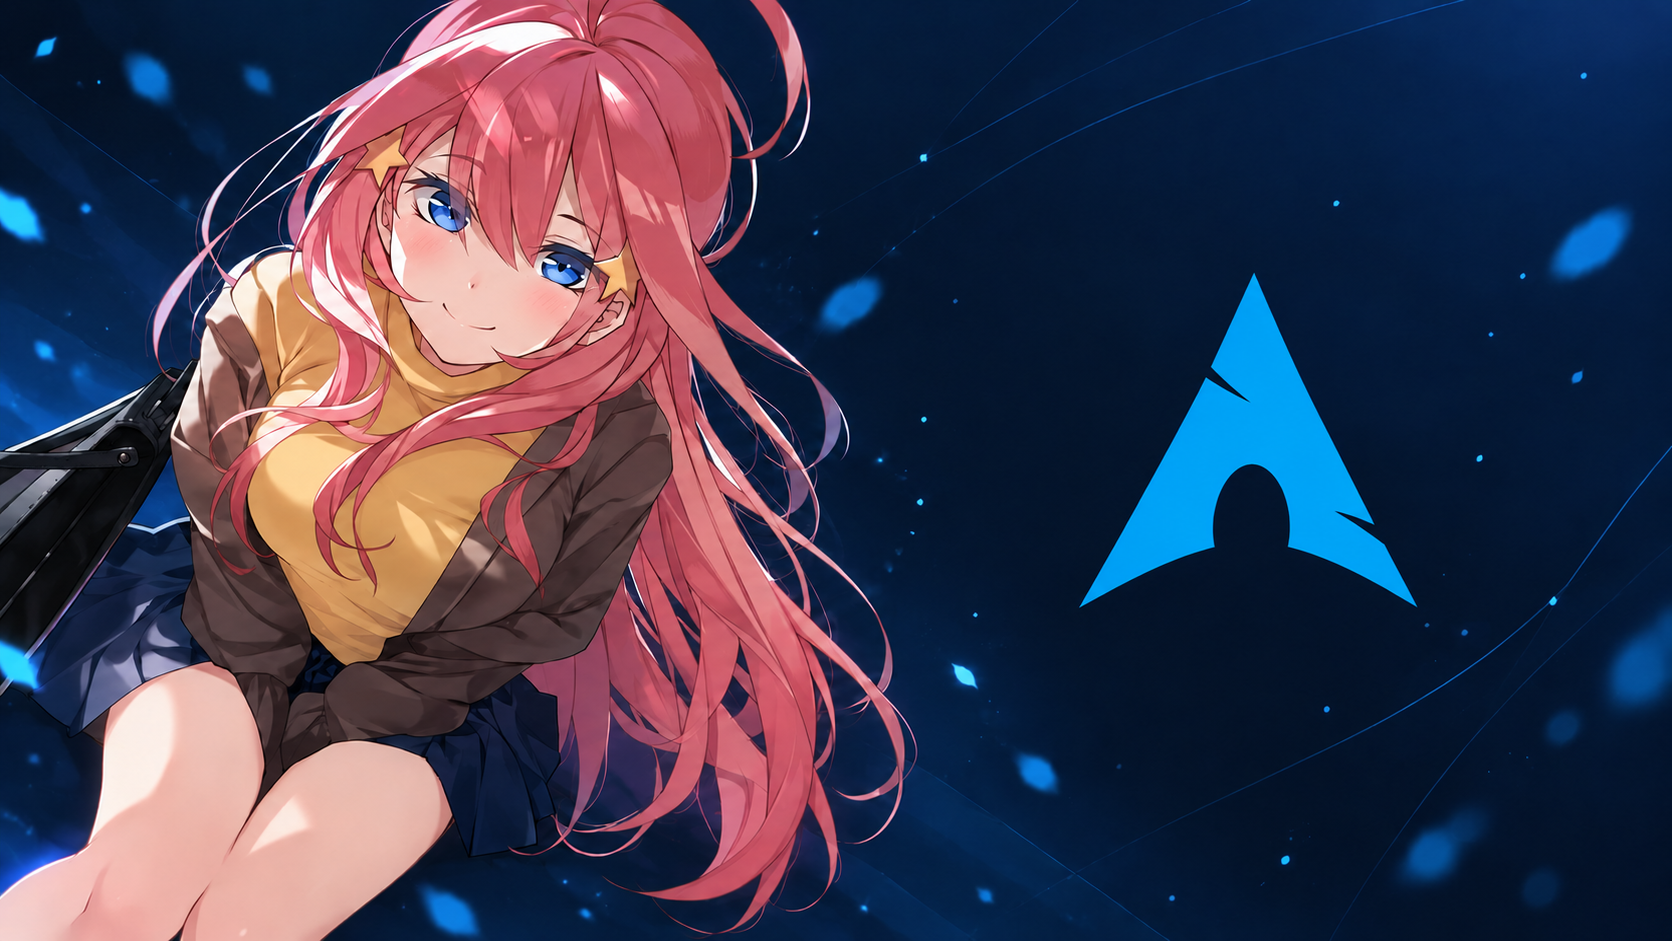
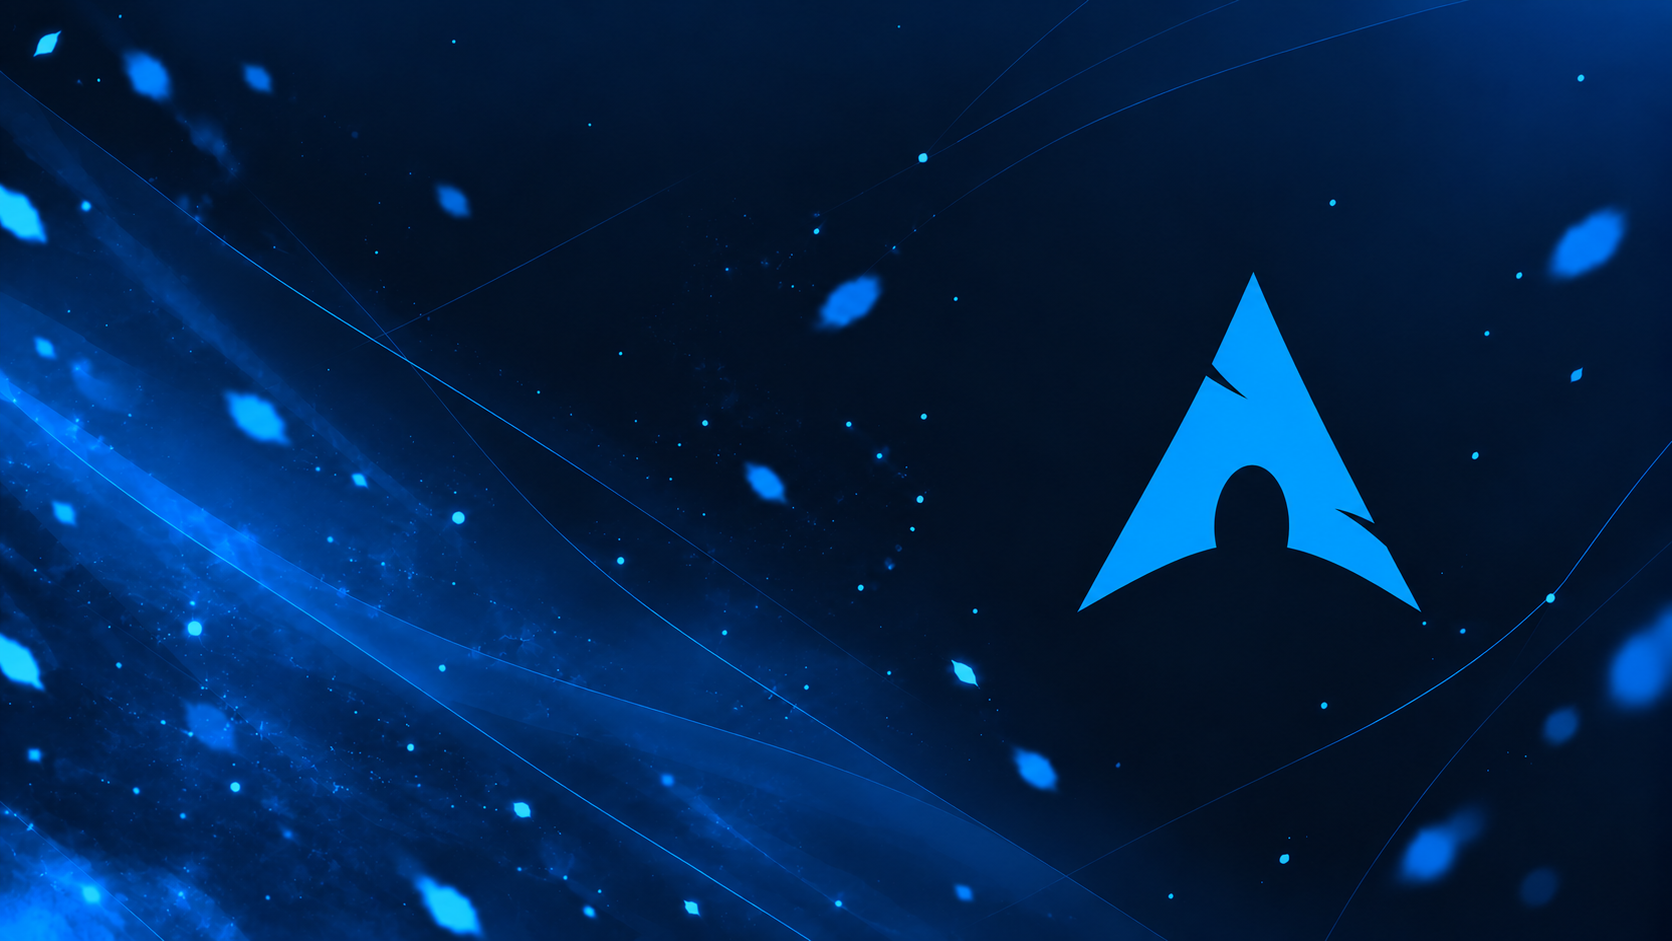
Use character-free Arch, Gentoo and neutral wallpapers

diff --git a/wallpaper/README.md b/wallpaper/README.md
@@ -4,10 +4,10 @@ The main installer selects the wallpaper matching the chosen variant and install
 
 | File | Intended variant | Description |
 |---|---|---|
-| `itsuki_debian_wallpaper_v2_1600x900.png` | Debian | Original red/pink Debian spiral |
-| `itsuki-arch.png` | Arch Linux | Blue background and blue-tinted petals |
-| `itsuki-gentoo.png` | Gentoo | Purple background and purple-tinted petals |
-| `itsuki-neutral.png` | Neutral | Red/pink background, without a large distro logo or star |
+| `itsuki_debian_wallpaper_v2_1600x900.png` | Debian | Original red/pink Debian spiral artwork |
+| `itsuki-arch.png` | Arch Linux | Blue/cyan space background with Arch logo, no anime character |
+| `itsuki-gentoo.png` | Gentoo | Violet space background with Gentoo logo, no anime character |
+| `itsuki-neutral.png` | Neutral | Red/pink atmospheric background without a distro logo or anime character |
 | `debian-rice.jpg` | LightDM | Dark Debian-logo background for the login greeter |
 
-The LightDM background is separate from the desktop wallpapers and is used only by the optional `install-lightdm.sh` script.
+The Arch, Gentoo, and Neutral files above are the wallpapers selected by the main installer's theme menu. The LightDM background is separate from the desktop wallpapers and is used only by the optional `install-lightdm.sh` script.

diff --git a/README.md b/README.md
@@ -13,7 +13,7 @@ A themed desktop configuration pack for **Niri on Wayland**, inspired by Itsuki.
 | Gentoo | Dark plum / violet | Gentoo | [View wallpaper](wallpaper/itsuki-gentoo.png) | `configs/gentoo/` |
 | Neutral | Red / rose | No distro mark | [View wallpaper](wallpaper/itsuki-neutral.png) | `configs/` |
 
-Arch and Gentoo have their own themed copies of Waybar, Fuzzel, Kitty, Dunst, Fetch, the XDG desktop-portal preference, and the brightness/audio slider. Debian and Neutral use the red/rose base theme; Neutral has no large distro logo or star on its wallpaper.
+Arch and Gentoo have their own themed copies of Waybar, Fuzzel, Kitty, Dunst, Fetch, the XDG desktop-portal preference, and the brightness/audio slider. The Arch, Gentoo, and Neutral wallpapers intentionally omit the anime character; Neutral also has no distro logo. Debian keeps the original red/rose Debian artwork.
 
 ## Installation
 
